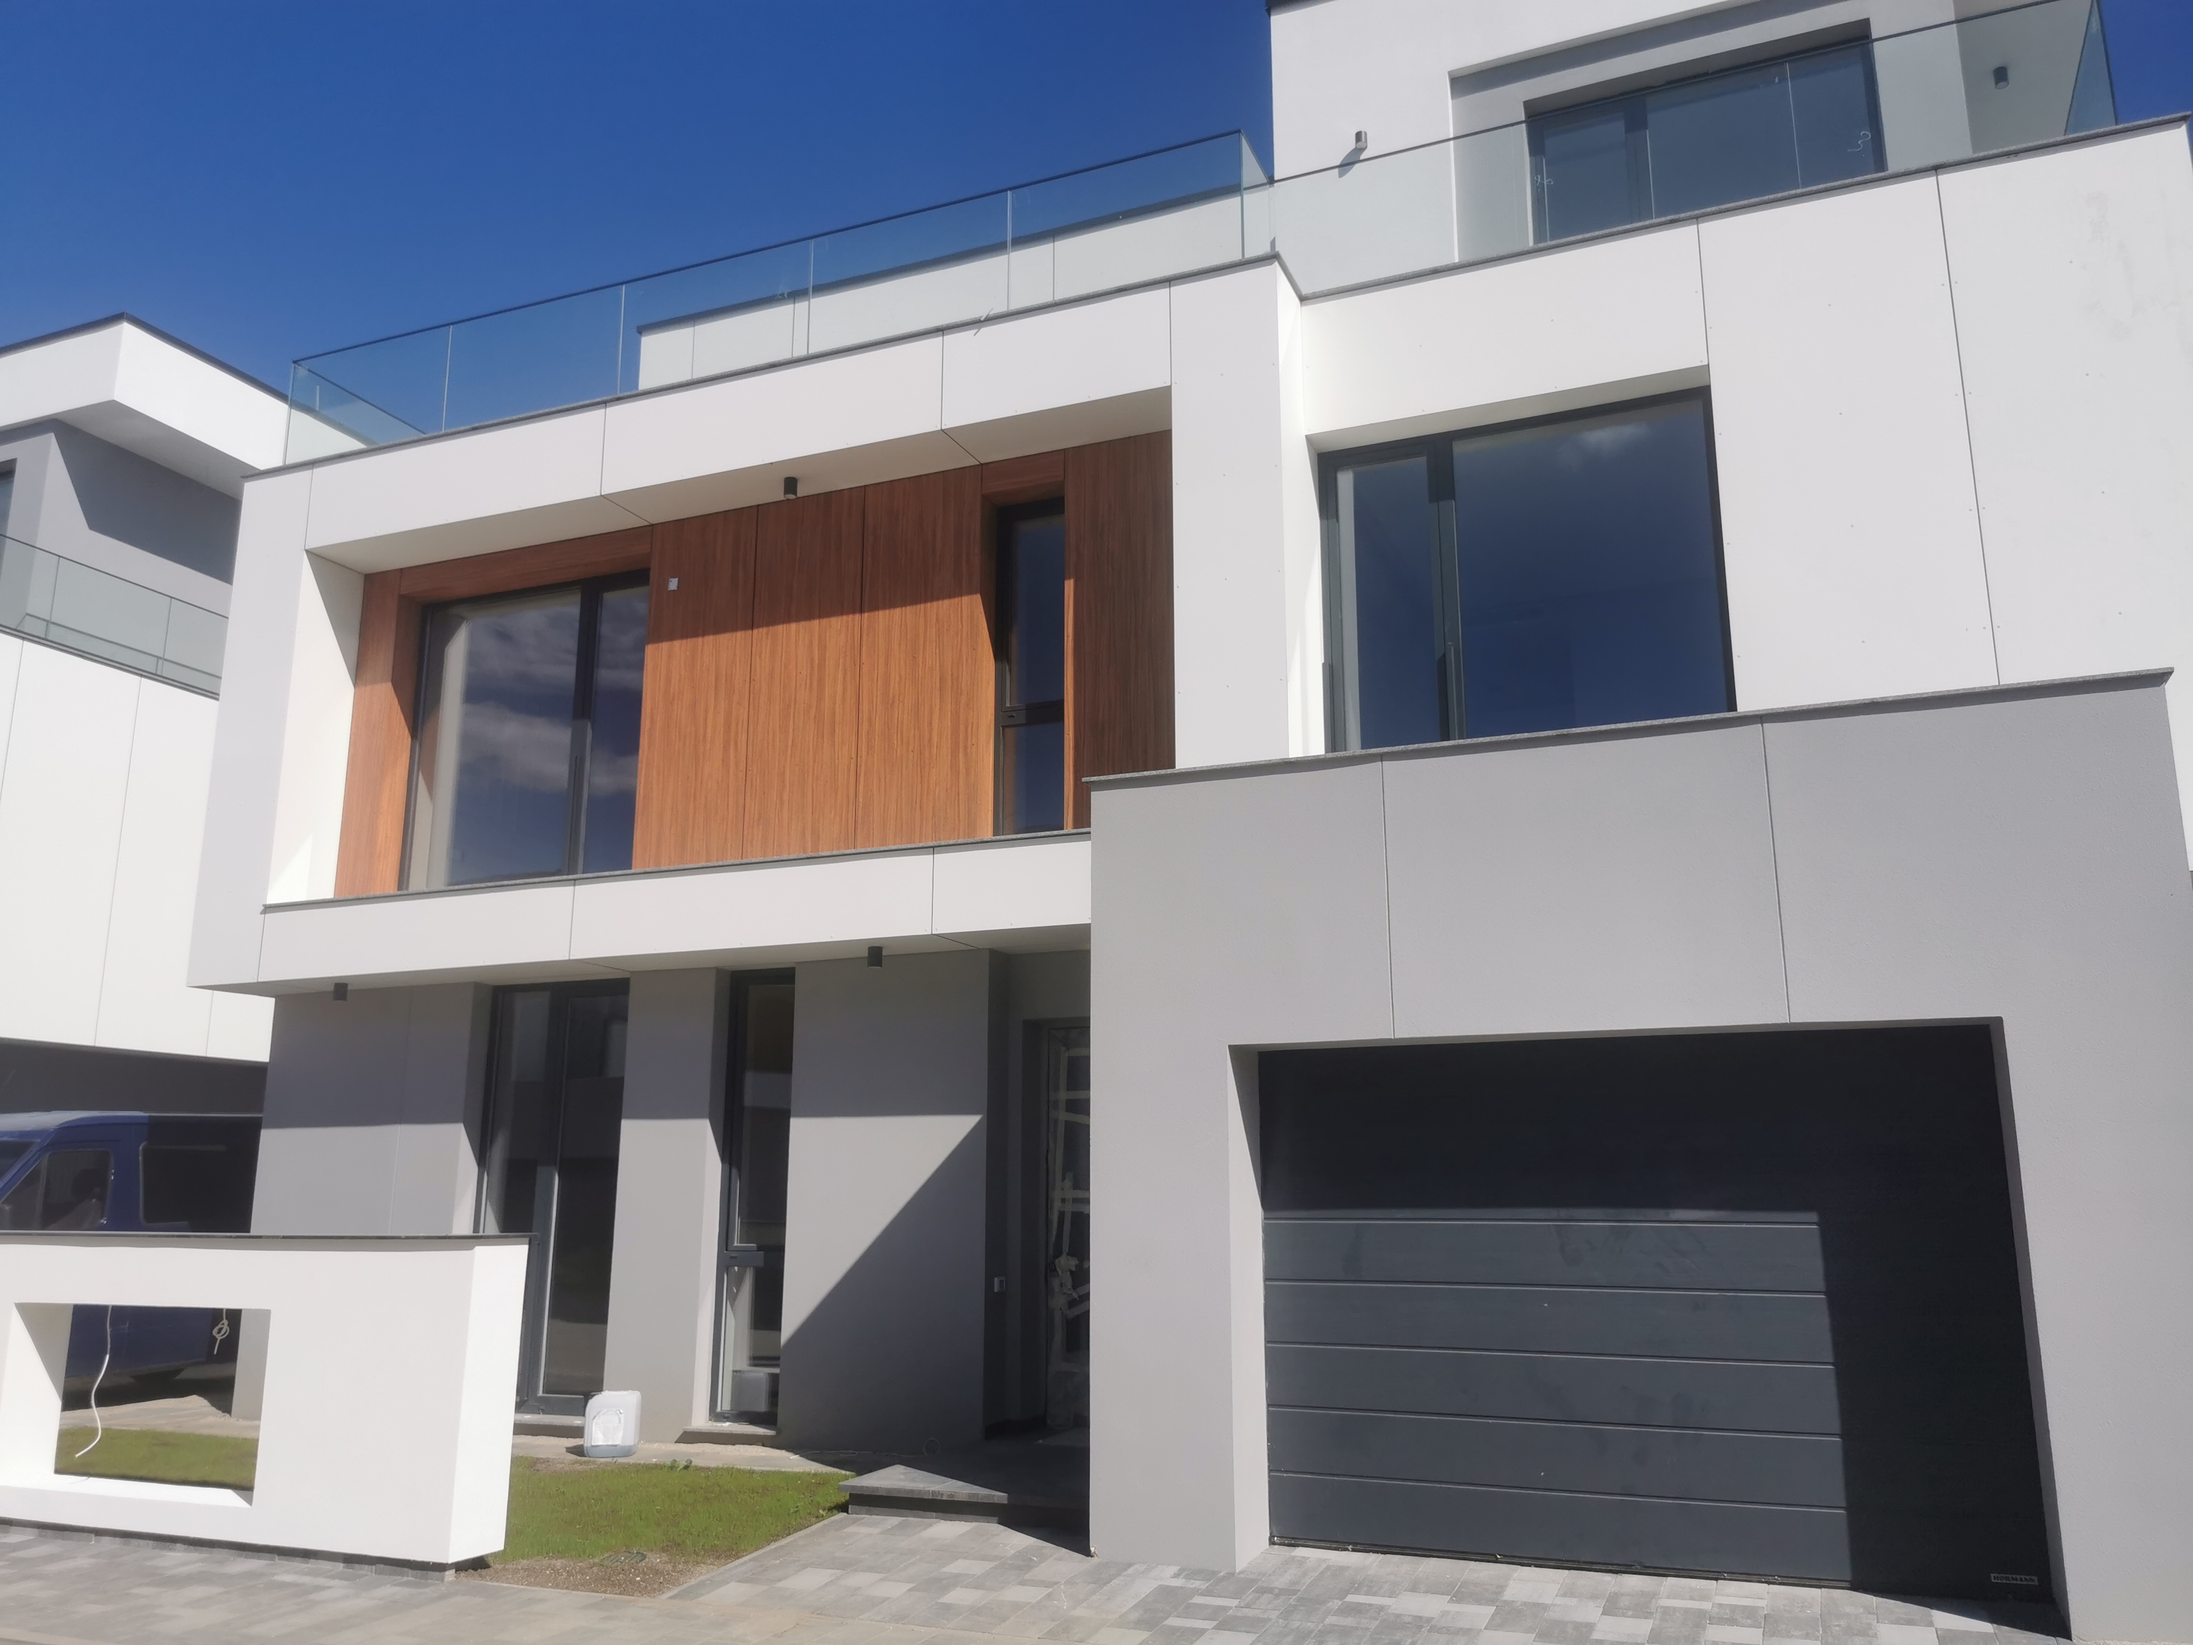
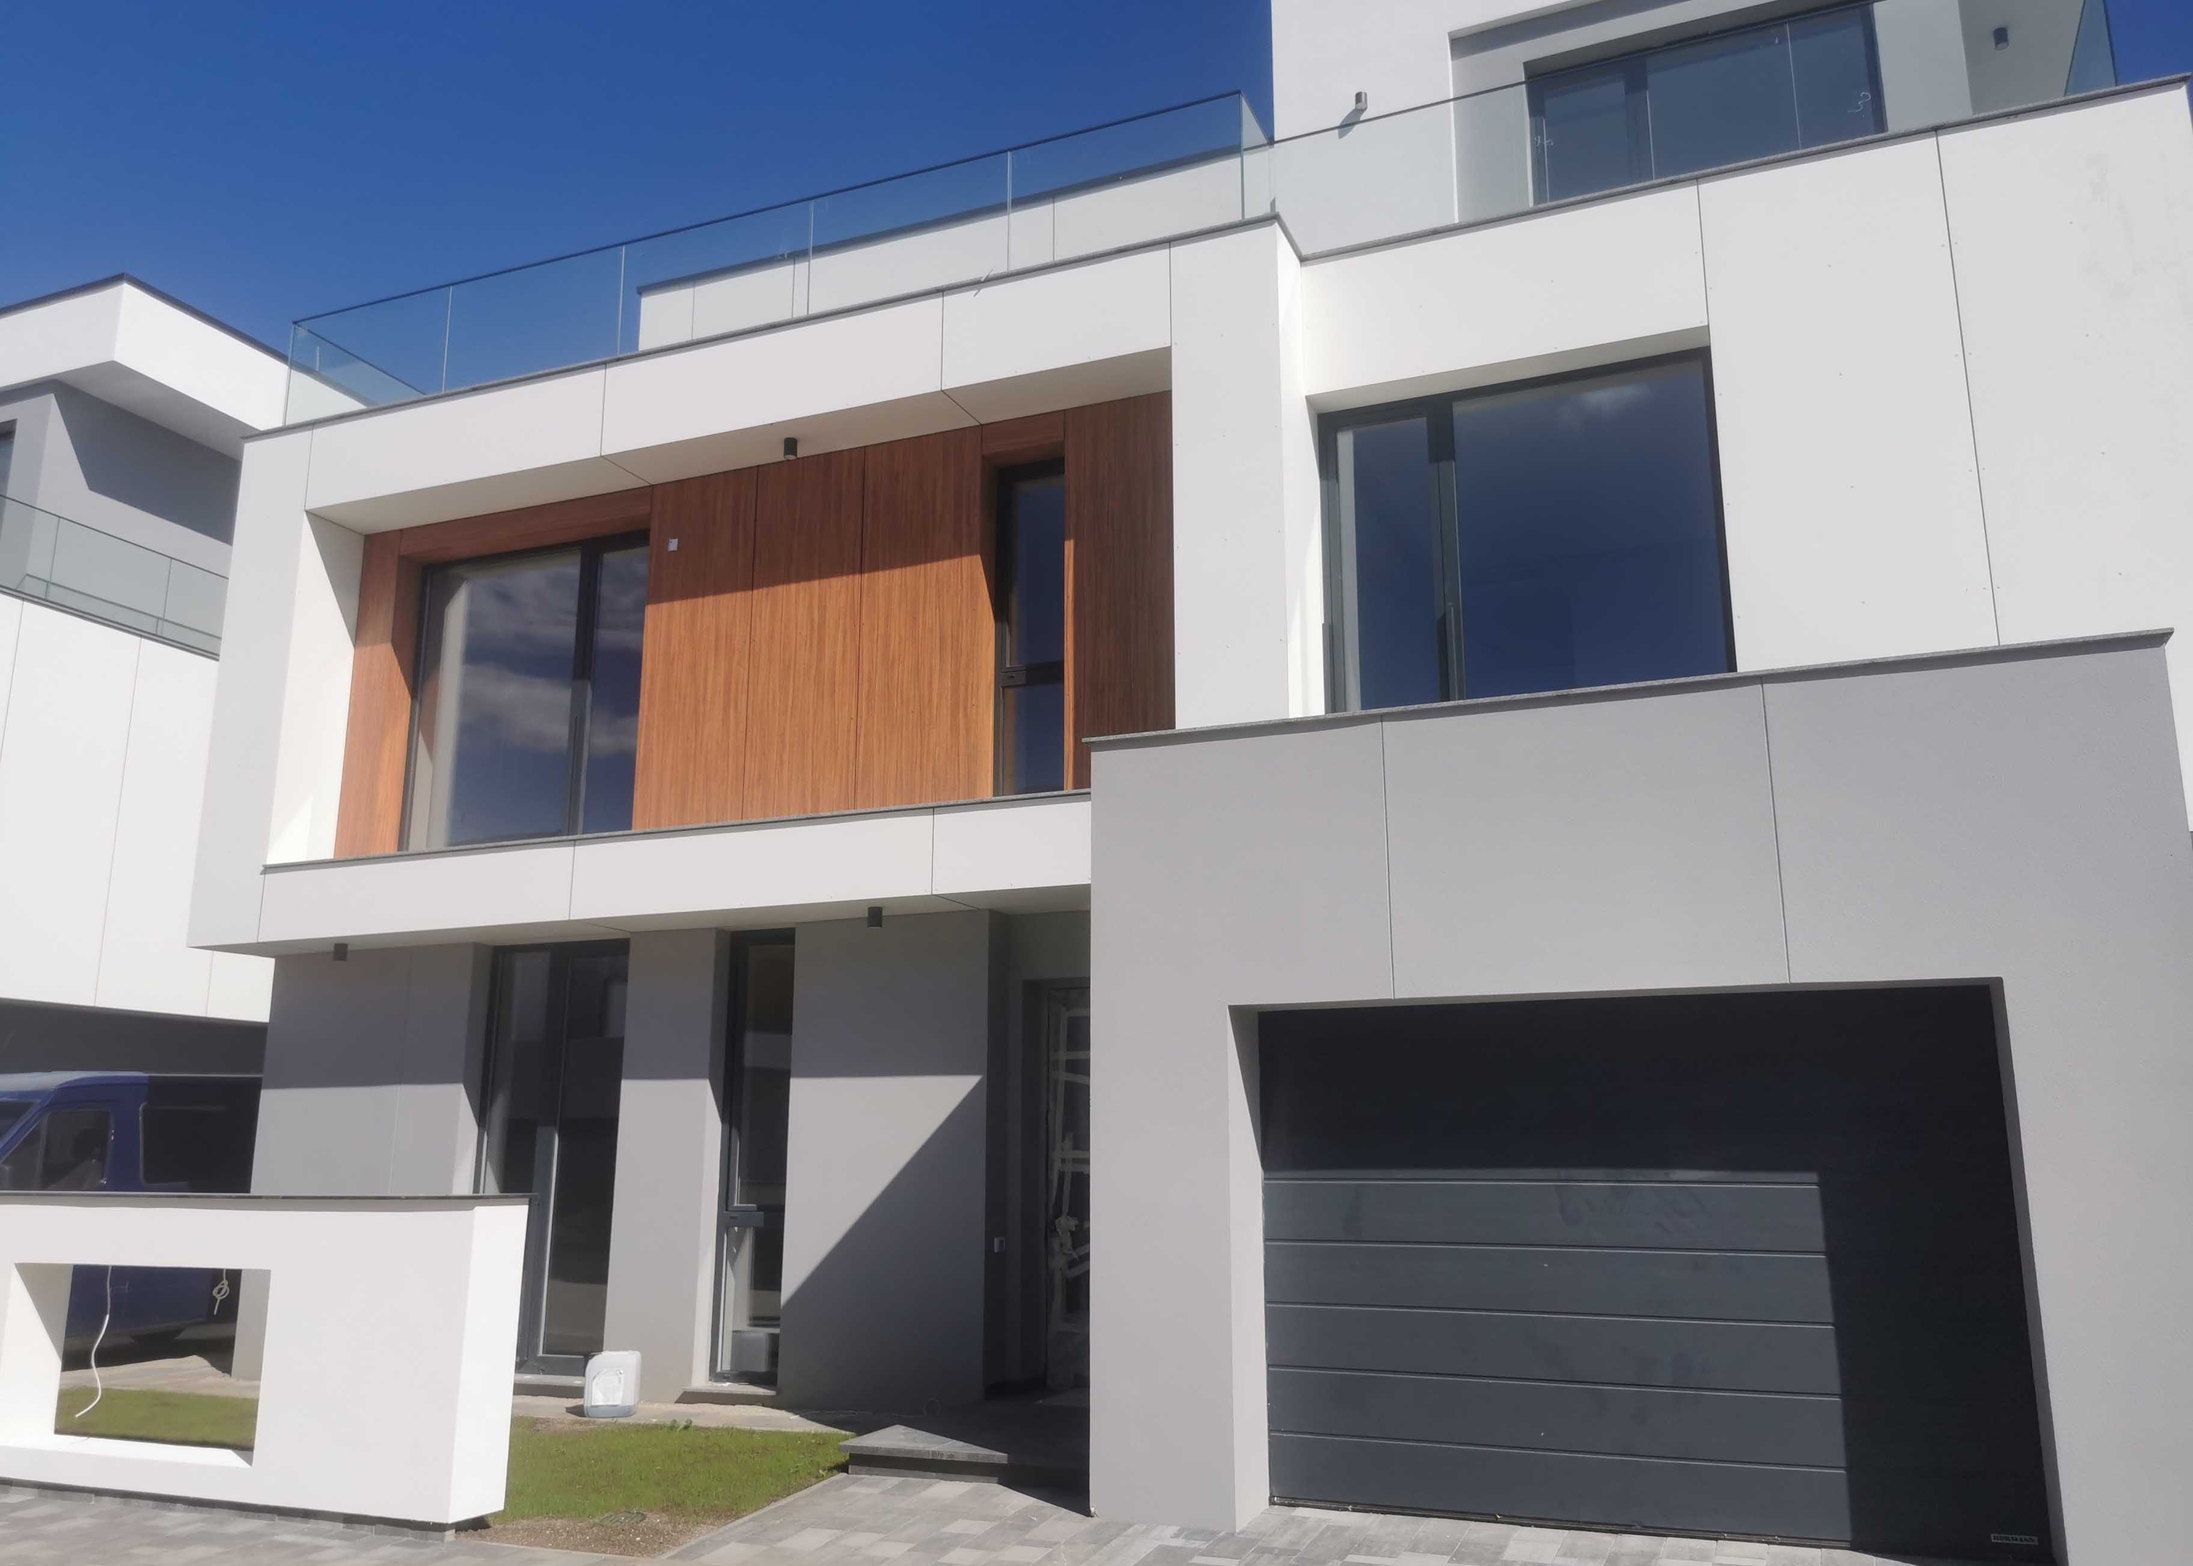
Poze cropate

diff --git a/index.html b/index.html
@@ -101,22 +101,22 @@
                             <div id="forRentCarousel" class="carousel slide carousel-fade img-hover-zoom" data-bs-ride="carousel">
                                 <div class="carousel-inner">
                                     <div class="carousel-item active">
-                                        <img src="122/1.jpg" class="d-block w-100" alt="...">
+                                        <img src="122/1.jpeg" class="d-block w-100" alt="...">
                                     </div>
                                     <div class="carousel-item">
-                                        <img src="122/2.jpg" class="d-block w-100" alt="...">
+                                        <img src="122/2.jpeg" class="d-block w-100" alt="...">
                                     </div>
                                     <div class="carousel-item">
-                                        <img src="122/3.jpg" class="d-block w-100" alt="...">
+                                        <img src="122/3.jpeg" class="d-block w-100" alt="...">
                                     </div>
                                     <div class="carousel-item">
-                                        <img src="122/4.jpg" class="d-block w-100" alt="...">
+                                        <img src="122/4.jpeg" class="d-block w-100" alt="...">
                                     </div>
                                     <div class="carousel-item">
-                                        <img src="122/5.jpg" class="d-block w-100" alt="...">
+                                        <img src="122/5.jpeg" class="d-block w-100" alt="...">
                                     </div>
                                     <div class="carousel-item">
-                                        <img src="122/6.jpg" class="d-block w-100" alt="...">
+                                        <img src="122/6.jpeg" class="d-block w-100" alt="...">
                                     </div>
                                 </div>
                             </div>
@@ -132,22 +132,22 @@
                             <div id="forSaleCarousel" class="carousel slide carousel-fade img-hover-zoom" data-bs-ride="carousel">
                                 <div class="carousel-inner">
                                     <div class="carousel-item active">
-                                        <img src="27/1.jpg" class="d-block w-100" alt="...">
+                                        <img src="27/1.jpeg" class="d-block w-100" alt="...">
                                     </div>
                                     <div class="carousel-item">
-                                        <img src="27/2.jpg" class="d-block w-100" alt="...">
+                                        <img src="27/2.jpeg" class="d-block w-100" alt="...">
                                     </div>
                                     <div class="carousel-item">
-                                        <img src="27/3.jpg" class="d-block w-100" alt="...">
+                                        <img src="27/3.jpeg" class="d-block w-100" alt="...">
                                     </div>
                                     <div class="carousel-item">
-                                        <img src="27/4.jpg" class="d-block w-100" alt="...">
+                                        <img src="27/4.jpeg" class="d-block w-100" alt="...">
                                     </div>
                                     <div class="carousel-item">
-                                        <img src="27/5.jpg" class="d-block w-100" alt="...">
+                                        <img src="27/5.jpeg" class="d-block w-100" alt="...">
                                     </div>
                                     <div class="carousel-item">
-                                        <img src="27/6.jpg" class="d-block w-100" alt="...">
+                                        <img src="27/6.jpeg" class="d-block w-100" alt="...">
                                     </div>
                                 </div>
                             </div>
